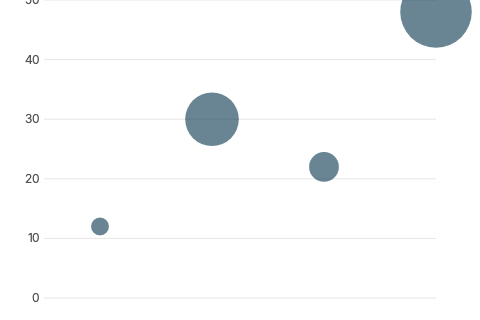
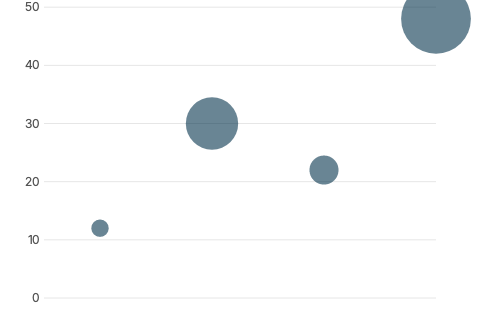
fix(charts): reserve top headroom so axis labels and bars are not clipped
ComputePlotArea now accepts a topGutter parameter reserved at the top of
the plot regardless of whether a title is present. The topmost y-axis tick
label is drawn centered at plot.Top, so with no top headroom its upper half
was clipped against the chart box top edge; the tallest bar/line point hit
the same edge. Axis-based renderers (bars, line/area, scatter/bubble) now
pass topGutter = theme.LabelSize * 0.6f to clear half the top tick label.

Regenerated affected chart goldens and their visual-docs mirror copies.

diff --git a/tests/FlexRender.Tests/Charts/ChartLayoutMathTests.cs b/tests/FlexRender.Tests/Charts/ChartLayoutMathTests.cs
@@ -14,10 +14,11 @@ public sealed class ChartLayoutMathTests
         var plot = ChartLayout.ComputePlotArea(
             width: 600f, height: 300f,
             hasTitle: false, legend: LegendPosition.None,
-            axisGutterLeft: 40f, axisGutterBottom: 24f, titleHeight: 24f, legendExtent: 60f);
+            axisGutterLeft: 40f, axisGutterBottom: 24f, titleHeight: 24f, legendExtent: 60f,
+            topGutter: 8f);
 
         Assert.Equal(40f, plot.Left);
-        Assert.Equal(0f, plot.Top);
+        Assert.Equal(8f, plot.Top);
         Assert.Equal(600f - 40f, plot.Right);
         Assert.Equal(300f - 24f, plot.Bottom);
     }
@@ -28,9 +29,23 @@ public sealed class ChartLayoutMathTests
         var plot = ChartLayout.ComputePlotArea(
             width: 600f, height: 300f,
             hasTitle: true, legend: LegendPosition.None,
-            axisGutterLeft: 40f, axisGutterBottom: 24f, titleHeight: 24f, legendExtent: 60f);
+            axisGutterLeft: 40f, axisGutterBottom: 24f, titleHeight: 24f, legendExtent: 60f,
+            topGutter: 8f);
 
-        Assert.Equal(24f, plot.Top);
+        Assert.Equal(24f + 8f, plot.Top);
+    }
+
+    [Fact]
+    public void ComputePlotArea_NoTitleWithTopGutter_ReservesHeadroom()
+    {
+        const float topGutter = 10f;
+        var plot = ChartLayout.ComputePlotArea(
+            width: 600f, height: 300f,
+            hasTitle: false, legend: LegendPosition.None,
+            axisGutterLeft: 40f, axisGutterBottom: 24f, titleHeight: 24f, legendExtent: 60f,
+            topGutter: topGutter);
+
+        Assert.True(plot.Top >= topGutter);
     }
 
     [Fact]
@@ -39,7 +54,8 @@ public sealed class ChartLayoutMathTests
         var plot = ChartLayout.ComputePlotArea(
             width: 600f, height: 300f,
             hasTitle: false, legend: LegendPosition.Bottom,
-            axisGutterLeft: 40f, axisGutterBottom: 24f, titleHeight: 24f, legendExtent: 60f);
+            axisGutterLeft: 40f, axisGutterBottom: 24f, titleHeight: 24f, legendExtent: 60f,
+            topGutter: 8f);
 
         Assert.Equal(300f - 24f - 60f, plot.Bottom);
     }
@@ -50,7 +66,8 @@ public sealed class ChartLayoutMathTests
         var plot = ChartLayout.ComputePlotArea(
             width: 600f, height: 300f,
             hasTitle: false, legend: LegendPosition.Right,
-            axisGutterLeft: 40f, axisGutterBottom: 24f, titleHeight: 24f, legendExtent: 60f);
+            axisGutterLeft: 40f, axisGutterBottom: 24f, titleHeight: 24f, legendExtent: 60f,
+            topGutter: 8f);
 
         Assert.Equal(600f - 40f - 60f, plot.Right);
     }
@@ -61,7 +78,8 @@ public sealed class ChartLayoutMathTests
         var plot = ChartLayout.ComputePlotArea(
             width: 30f, height: 20f,
             hasTitle: true, legend: LegendPosition.Bottom,
-            axisGutterLeft: 40f, axisGutterBottom: 24f, titleHeight: 24f, legendExtent: 60f);
+            axisGutterLeft: 40f, axisGutterBottom: 24f, titleHeight: 24f, legendExtent: 60f,
+            topGutter: 8f);
 
         Assert.True(plot.Right >= plot.Left);
         Assert.True(plot.Bottom >= plot.Top);

diff --git a/src/FlexRender.Skia.Render/Rendering/ChartRenderer.cs b/src/FlexRender.Skia.Render/Rendering/ChartRenderer.cs
@@ -355,7 +355,8 @@ internal static class ChartRenderer
         var hasTitle = !string.IsNullOrEmpty(chart.Title);
         var plot = ChartLayout.ComputePlotArea(
             width, height, hasTitle, chart.Legend,
-            axisGutterLeft: 44f, axisGutterBottom: 22f, titleHeight: theme.TitleSize + 8f, legendExtent: 28f);
+            axisGutterLeft: 44f, axisGutterBottom: 22f, titleHeight: theme.TitleSize + 8f, legendExtent: 28f,
+            topGutter: theme.LabelSize * 0.6f);
 
         var palette = chart.Palette ?? ChartPalettes.Default;
 
@@ -550,7 +551,8 @@ internal static class ChartRenderer
         var hasTitle = !string.IsNullOrEmpty(chart.Title);
         var plot = ChartLayout.ComputePlotArea(
             width, height, hasTitle, chart.Legend,
-            axisGutterLeft: 44f, axisGutterBottom: 22f, titleHeight: theme.TitleSize + 8f, legendExtent: 28f);
+            axisGutterLeft: 44f, axisGutterBottom: 22f, titleHeight: theme.TitleSize + 8f, legendExtent: 28f,
+            topGutter: theme.LabelSize * 0.6f);
 
         DrawGridAndYAxis(canvas, theme, plot, scale, typeface, antialias);
 
@@ -683,7 +685,8 @@ internal static class ChartRenderer
         var hasTitle = !string.IsNullOrEmpty(chart.Title);
         var plot = ChartLayout.ComputePlotArea(
             width, height, hasTitle, chart.Legend,
-            axisGutterLeft: 44f, axisGutterBottom: 22f, titleHeight: theme.TitleSize + 8f, legendExtent: 28f);
+            axisGutterLeft: 44f, axisGutterBottom: 22f, titleHeight: theme.TitleSize + 8f, legendExtent: 28f,
+            topGutter: theme.LabelSize * 0.6f);
 
         DrawGridAndYAxis(canvas, theme, plot, yScale, typeface, antialias);
 

diff --git a/src/FlexRender.Core/Charts/ChartLayout.cs b/src/FlexRender.Core/Charts/ChartLayout.cs
@@ -35,6 +35,12 @@ public static class ChartLayout
     /// <param name="axisGutterBottom">The bottom gutter reserved for x-axis labels.</param>
     /// <param name="titleHeight">The title band height when <paramref name="hasTitle"/> is true.</param>
     /// <param name="legendExtent">The legend band size (height for top/bottom, width for left/right).</param>
+    /// <param name="topGutter">
+    /// Headroom reserved at the very top of the plot, regardless of whether a title is present.
+    /// This clears the upper half of the topmost y-axis tick label (drawn centered at the plot top)
+    /// and gives the tallest bar or line point breathing room so neither is clipped against the
+    /// chart box top edge.
+    /// </param>
     /// <returns>The computed <see cref="PlotArea"/>, never inverted.</returns>
     public static PlotArea ComputePlotArea(
         float width,
@@ -44,10 +50,11 @@ public static class ChartLayout
         float axisGutterLeft,
         float axisGutterBottom,
         float titleHeight,
-        float legendExtent)
+        float legendExtent,
+        float topGutter = 0f)
     {
         var left = axisGutterLeft;
-        var top = hasTitle ? titleHeight : 0f;
+        var top = (hasTitle ? titleHeight : 0f) + topGutter;
         // Mirror the left gutter on the right so series geometry and edge labels are not clipped.
         var right = width - axisGutterLeft;
         var bottom = height - axisGutterBottom;
